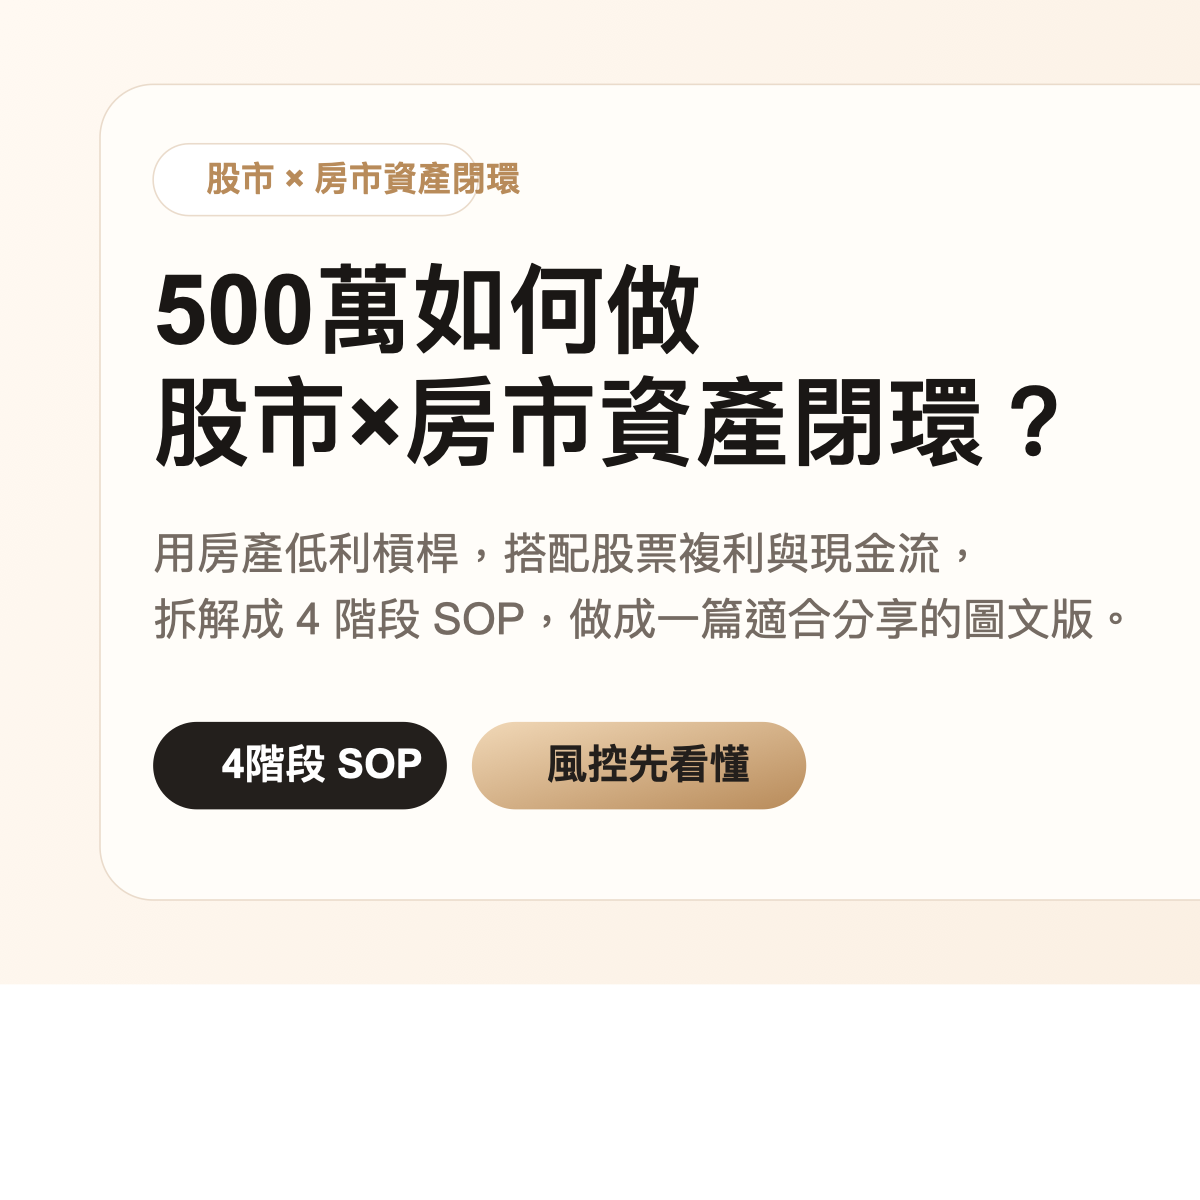
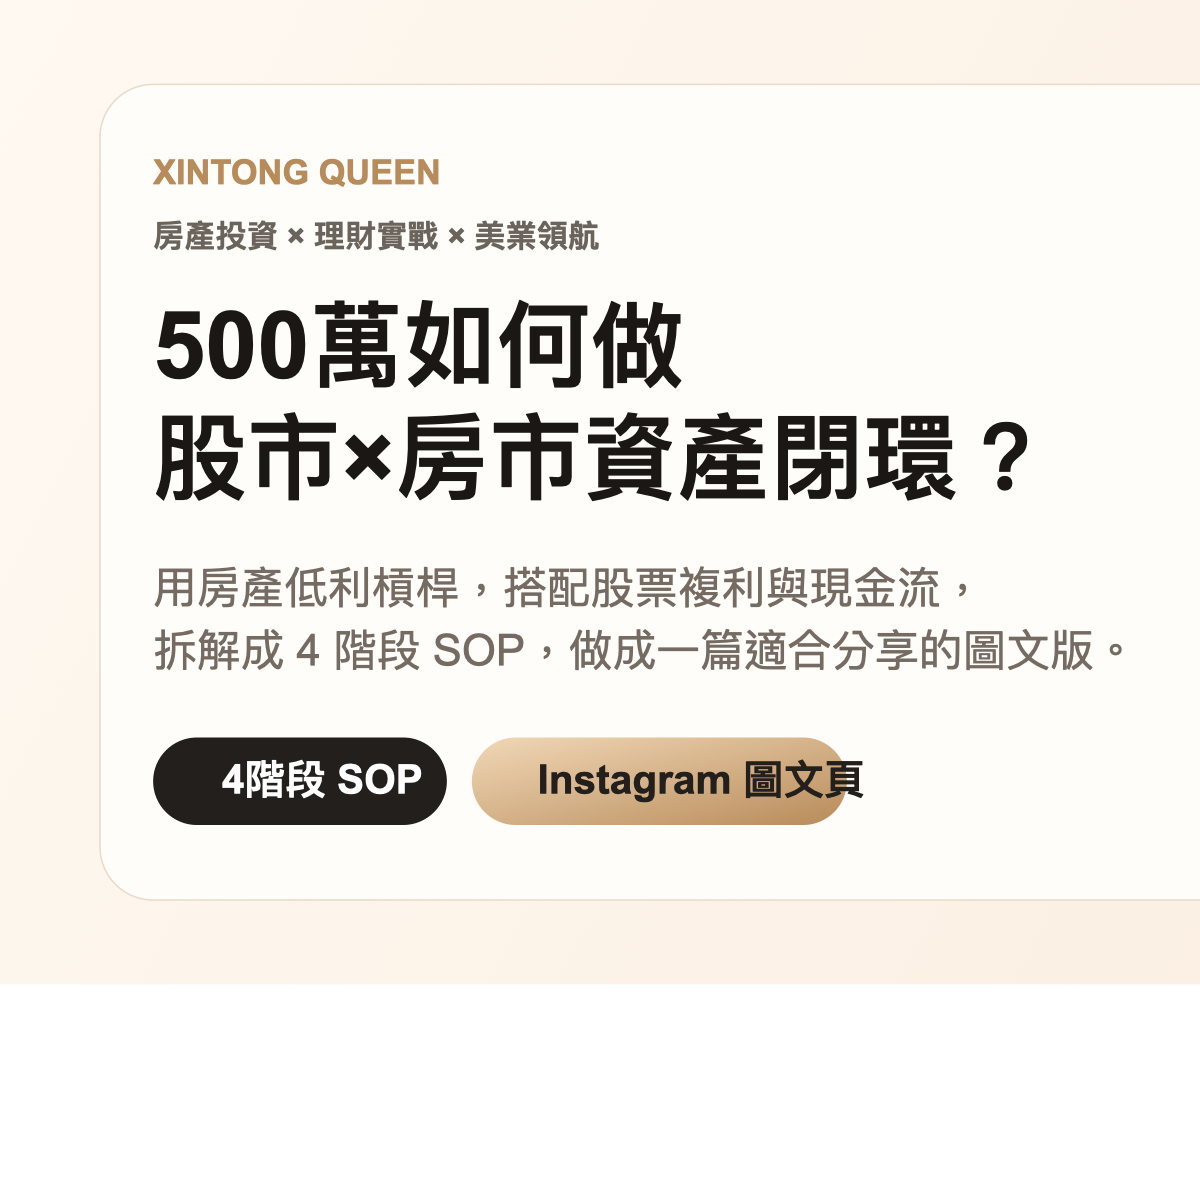
Update page with Xintong Queen intro and revised copy

Changed region(s): [[0.1233, 0.1233, 0.925, 0.555], [0.1233, 0.5858, 0.74, 0.7092]]

diff --git a/index.html b/index.html
@@ -60,6 +60,44 @@
       border-radius: 50%;
       background: radial-gradient(circle, rgba(184,139,90,.22) 0%, rgba(184,139,90,0) 70%);
     }
+    .brand {
+      background: rgba(255,255,255,.78);
+      border: 1px solid var(--line);
+      border-radius: 24px;
+      padding: 16px;
+      margin-bottom: 16px;
+      position: relative;
+      z-index: 1;
+    }
+    .brand-title {
+      font-size: 1.18rem;
+      font-weight: 800;
+      margin-bottom: 8px;
+      letter-spacing: .01em;
+    }
+    .brand-sub {
+      color: var(--sub);
+      margin-bottom: 6px;
+    }
+    .ig-link {
+      display: inline-flex;
+      align-items: center;
+      gap: 8px;
+      margin-top: 10px;
+      padding: 10px 14px;
+      border-radius: 999px;
+      background: #fff;
+      border: 1px solid var(--line);
+      color: #8a5b2f;
+      font-weight: 700;
+      text-decoration: none;
+      word-break: break-all;
+    }
+    .ig-icon {
+      width: 18px;
+      height: 18px;
+      flex: 0 0 18px;
+    }
     .pill {
       display: inline-block;
       padding: 7px 14px;
@@ -70,17 +108,23 @@
       font-size: .83rem;
       font-weight: 800;
       letter-spacing: .06em;
+      position: relative;
+      z-index: 1;
     }
     h1 {
       font-size: 2.2rem;
       line-height: 1.16;
       margin: 16px 0 14px;
       letter-spacing: -0.03em;
+      position: relative;
+      z-index: 1;
     }
     .lead {
       color: var(--sub);
       font-size: 1rem;
       margin: 0;
+      position: relative;
+      z-index: 1;
     }
     .cover {
       display: block;
@@ -168,6 +212,8 @@
       grid-template-columns: repeat(2, minmax(0,1fr));
       gap: 10px;
       margin-top: 16px;
+      position: relative;
+      z-index: 1;
     }
     .stat {
       background: #fff;
@@ -223,12 +269,29 @@
       .bigline { font-size: 1.08rem; }
       .pill { font-size: .78rem; }
       .stat strong { font-size: 1.08rem; }
+      .brand-title { font-size: 1.04rem; }
+      .ig-link { align-items: flex-start; }
     }
   </style>
 </head>
 <body>
   <main class="wrap">
     <section class="hero">
+      <div class="brand">
+        <div class="brand-title">鑫彤女王 𝔛𝔦𝔫𝔱𝔬𝔫𝔤 𝔔𝔲𝔢𝔢𝔫｜美人都愛賺｜</div>
+        <div class="brand-sub">▫ 房產投資 ▫ 理財實戰 ▫ 美業領航</div>
+        <div class="brand-sub">艾絲緹造型團隊主理人 @estilista.wedding_</div>
+        <div class="brand-sub">─── 𝓡𝓲𝓬𝓱 𝓒𝓱𝓮𝓻𝓲𝓮 ───</div>
+        <a class="ig-link" href="https://www.instagram.com/cherie.estilista" target="_blank" rel="noopener noreferrer">
+          <svg class="ig-icon" viewBox="0 0 24 24" fill="none" aria-hidden="true">
+            <rect x="3.5" y="3.5" width="17" height="17" rx="5" stroke="currentColor" stroke-width="2"/>
+            <circle cx="12" cy="12" r="4" stroke="currentColor" stroke-width="2"/>
+            <circle cx="17.4" cy="6.6" r="1.2" fill="currentColor"/>
+          </svg>
+          Instagram｜cherie.estilista
+        </a>
+      </div>
+
       <span class="pill">股市 × 房市資產閉環</span>
       <h1>500萬如何做股市×房市資產閉環？</h1>
       <p class="lead">把房產低利槓桿和股票複利現金流結合，形成一套很多投資圈會討論的「資產放大 SOP」。這篇幫你拆成超好懂版本。</p>
@@ -256,7 +319,7 @@
           <div class="tag">先買房</div>
           <p><strong>把 500 萬當頭期款，先建立資產基座。</strong></p>
           <ul>
-            <li>鎖定龜山、青埔等具增值題材地段</li>
+            <li>鎖定北市汐止、桃園龜山等科技走廊與具增值題材地段</li>
             <li>目標房價約 2,000 萬到 2,500 萬</li>
             <li>重點是拿到低利、長年限槓桿</li>
           </ul>
@@ -347,7 +410,7 @@
         <div class="card">
           <div class="tag">房地產</div>
           <p class="bigline">先學房商，不只是學買賣</p>
-          <p class="muted">真正重要的是房產結構、現金流思維和資產配置，而不只是一次性的買進賣出。</p>
+          <p class="muted">房地產投資不是只能靠買賣賺價差，真正重要的是房產結構、現金流思維和資產配置。</p>
         </div>
       </div>
     </section>
@@ -366,7 +429,7 @@
       <span class="pill" style="background:rgba(255,255,255,.08);border-color:rgba(255,255,255,.12);color:#f1d6b7;">講座 CTA</span>
       <h2 style="margin:14px 0 10px;font-size:1.8rem;line-height:1.25;">想學股市 × 房市的資產閉環思維？</h2>
       <p>私訊 IG 關鍵字「課程」，我會傳社群連結和報名資訊給你。從鑫彤這邊報名，還有專屬優惠。</p>
-      <a class="btn" href="#">私訊 IG：課程</a>
+      <a class="btn" href="https://www.instagram.com/cherie.estilista" target="_blank" rel="noopener noreferrer">前往 Instagram 私訊</a>
     </section>
 
     <div class="footer">本頁為公開整理版，僅供資訊與學習用途。實際投資、借貸、質押與槓桿操作前，請自行評估風險與承受能力。</div>
